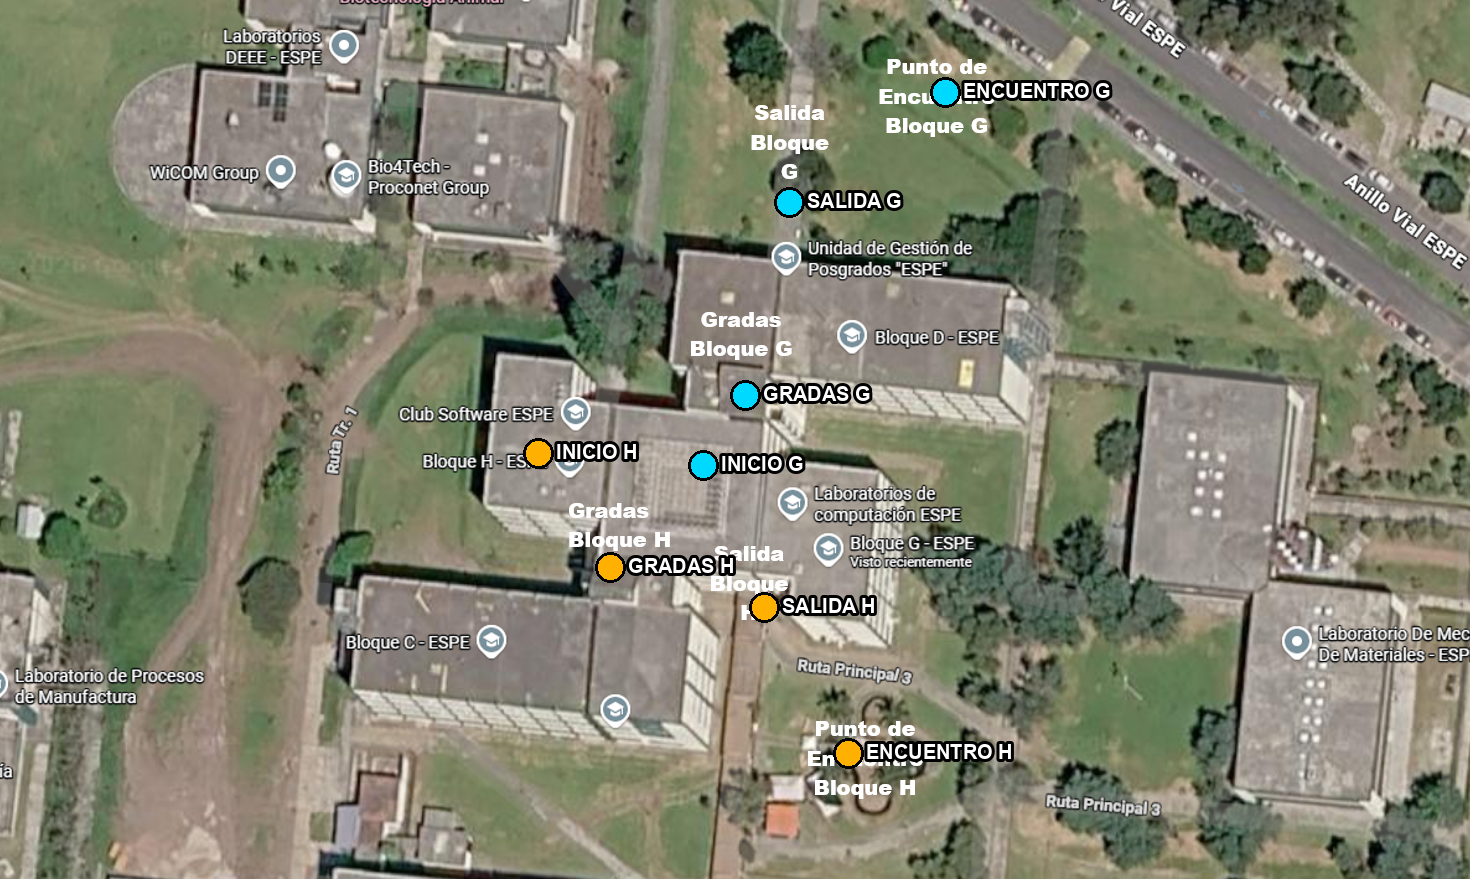
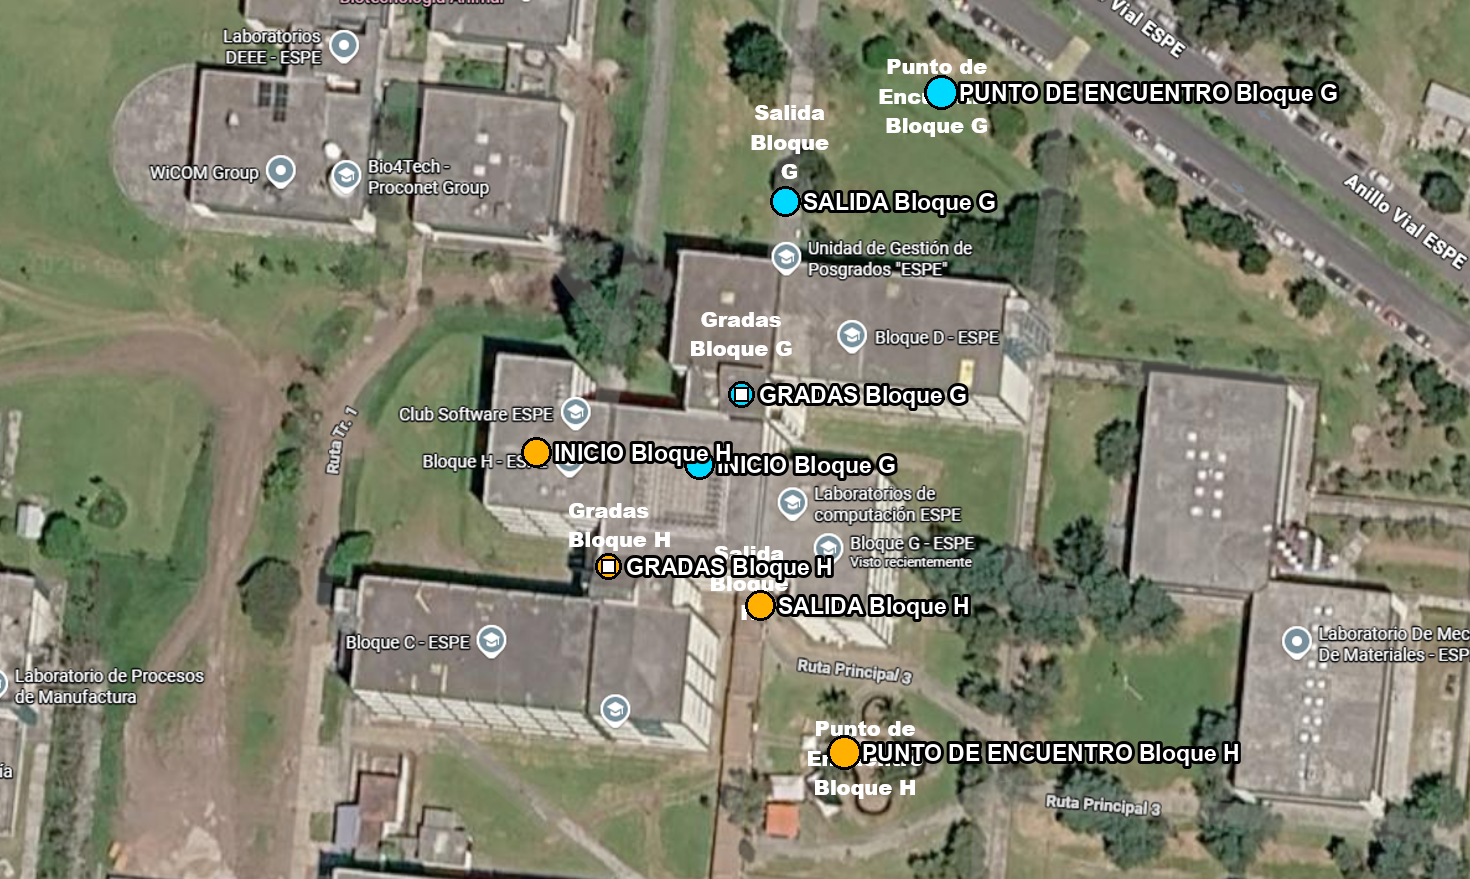
Corrige origen del Bloque G

diff --git a/simulacion_evacuacion_bat.py b/simulacion_evacuacion_bat.py
@@ -24,7 +24,8 @@ NIVELES = {"S": -1, "PB": 0, "P1": 1, "P2": 2}
 
 # Coordenadas normalizadas sobre campus_espe.png (1476 x 880), escalables.
 PUNTOS = {
-    "Bloque G": {"origen": (0.476, 0.529), "gradas": (0.505, 0.449), "salida": (0.535, 0.230), "encuentro": (0.641, 0.105), "color": "#00d9ff"},
+    # Origen G: edificio rotulado "Bloque G - ESPE", bajo Laboratorios de computación.
+    "Bloque G": {"origen": (0.568, 0.623), "gradas": (0.505, 0.449), "salida": (0.535, 0.230), "encuentro": (0.641, 0.105), "color": "#00d9ff"},
     "Bloque H": {"origen": (0.365, 0.515), "gradas": (0.414, 0.645), "salida": (0.518, 0.690), "encuentro": (0.575, 0.857), "color": "#ffb000"},
 }
 POLIGONO_ESCALA = np.array([
